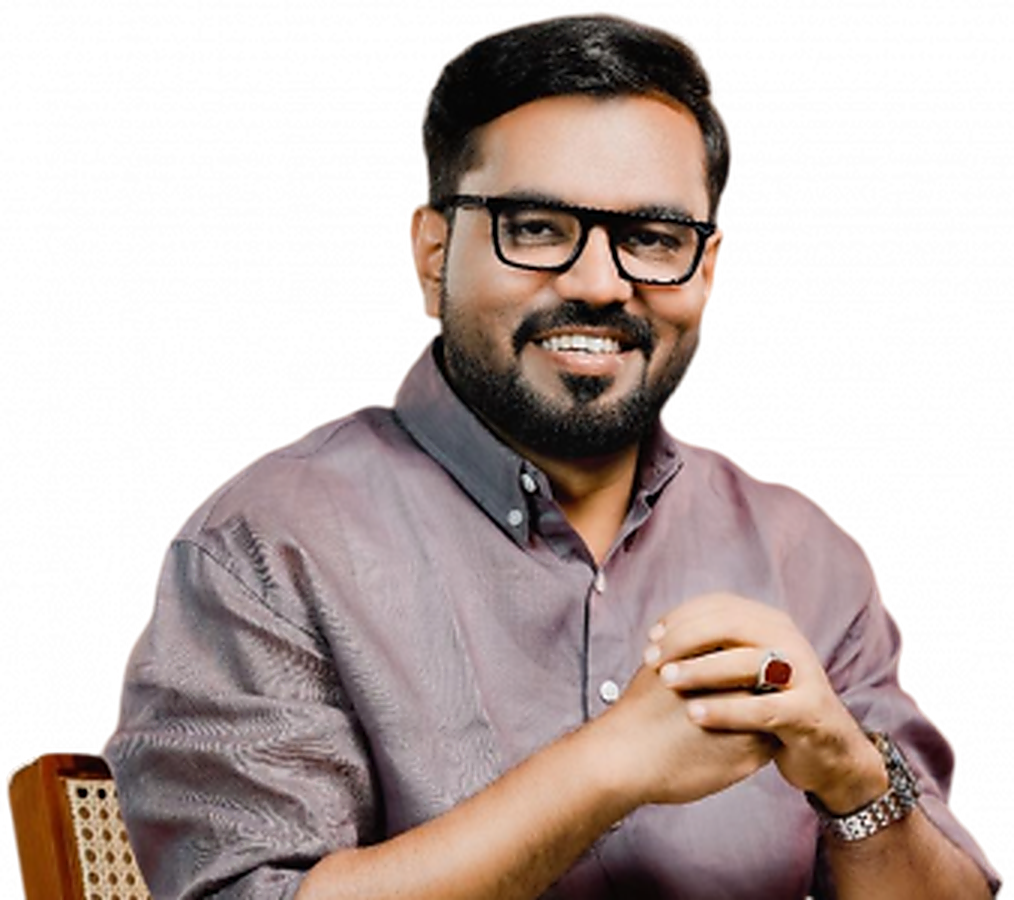
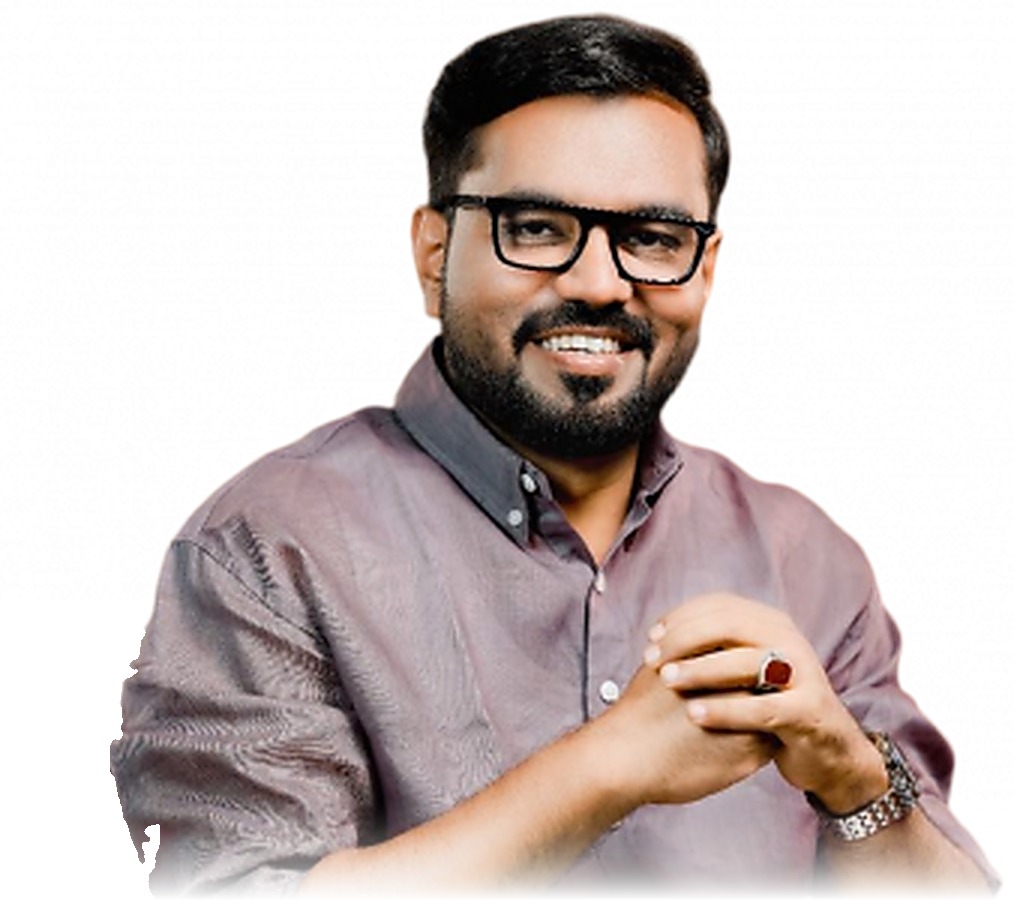
fix: resolve footer readability issue, remove chair and elevate leader portrait, and add fluid stream ozhukk waves into blue canvas

Changed region(s): [[0.0, 0.7778, 1.0, 1.0], [0.1223, 0.7156, 0.1529, 0.7467]]

diff --git a/src/styles/components.css b/src/styles/components.css
@@ -678,50 +678,92 @@
   gap: var(--space-4);
 }
 
-/* Footer Skeleton */
+/* ==========================================================================
+   PREMIUM INSTITUTIONAL FOOTER SYSTEM (WCAG AAA High Contrast & Ultra Legible)
+   ========================================================================== */
 .site-footer {
-  background-color: var(--color-surface-dark);
-  color: var(--color-text-inverted);
-  border-top: 1px solid var(--color-border-dark);
+  background: linear-gradient(180deg, #071738 0%, #051024 100%);
+  color: #F8FAFC;
+  border-top: 1px solid rgba(56, 189, 248, 0.2);
   padding-top: var(--space-16);
   padding-bottom: var(--space-12);
   margin-top: 0;
+  position: relative;
+  z-index: 10;
 }
 
 .site-footer a {
-  color: var(--color-text-secondary-inverted);
-  transition: color var(--transition-fast);
+  color: #E2E8F0 !important;
+  font-size: 0.9375rem;
+  font-weight: 500;
+  text-decoration: none;
+  transition: color var(--transition-fast), transform var(--transition-fast);
+  display: inline-flex;
+  align-items: center;
 }
 
 .site-footer a:hover {
-  color: var(--color-accent-gold);
+  color: #38BDF8 !important;
+  transform: translateX(3px);
+}
+
+.site-footer a:focus-visible {
+  outline: 2px solid #38BDF8;
+  outline-offset: 4px;
+}
+
+.site-footer p {
+  color: #CBD5E1 !important;
+  line-height: 1.7;
 }
 
 .site-footer__heading {
   font-family: var(--font-heading);
-  font-size: var(--text-xs);
-  font-weight: 600;
-  letter-spacing: var(--tracking-uppercase);
+  font-size: 0.8125rem;
+  font-weight: 800;
+  letter-spacing: 0.08em;
   text-transform: uppercase;
-  color: #FFFFFF;
-  margin-bottom: var(--space-4);
+  color: #FFFFFF !important;
+  margin-bottom: var(--space-5);
+  display: flex;
+  align-items: center;
+  gap: 8px;
+}
+
+.site-footer__heading::before {
+  content: '';
+  display: inline-block;
+  width: 6px;
+  height: 6px;
+  border-radius: 50%;
+  background-color: #10B981;
+  box-shadow: 0 0 8px #10B981;
 }
 
 .site-footer__list {
   display: flex;
   flex-direction: column;
-  gap: var(--space-2);
+  gap: 12px;
 }
 
 .site-footer__bottom {
-  border-top: 1px solid var(--color-border-dark);
+  border-top: 1px solid rgba(255, 255, 255, 0.12);
   margin-top: var(--space-12);
   padding-top: var(--space-6);
   display: flex;
   flex-direction: column;
   gap: var(--space-4);
-  font-size: var(--text-xs);
-  color: var(--color-text-tertiary);
+  font-size: 0.8125rem;
+  color: #94A3B8;
+}
+
+.site-footer__bottom a {
+  color: #CBD5E1 !important;
+  font-size: 0.8125rem;
+}
+
+.site-footer__bottom a:hover {
+  color: #FFFFFF !important;
 }
 
 @media (min-width: 768px) {
@@ -1418,15 +1460,26 @@
 }
 
 /* ==========================================================================
-   OFF-WHITE HERO SECTION WITH MINIMAL BLUE & CALICUT SOUTH ELEMENTS
-   Inspired by prestigious leadership campaign portraits (Shafi Parambil style)
+   OFF-WHITE HERO SECTION WITH FLUID "OZHUKK" STREAM INTO ROYAL BLUE
+   - Leader Portrait: Full-height, bold, chair removed, unobstructed hands
+   - Seamless streaming gradient flow melting from warm off-white into royal blue
    ========================================================================== */
 .hero-light-section {
   position: relative;
-  background: linear-gradient(155deg, #FFFFFF 0%, #F8FAFD 40%, #EFF5FD 80%, #E2EDFC 100%);
+  background: linear-gradient(
+    180deg,
+    #FFFFFF 0%,
+    #F8FAFD 25%,
+    #EFF5FD 48%,
+    #E0ECFA 68%,
+    #BFD8F8 82%,
+    #7CAEF2 90%,
+    #3078E3 96%,
+    #185EC8 100%
+  );
   color: #0F172A;
   padding-top: var(--space-8);
-  padding-bottom: var(--space-12);
+  padding-bottom: 0;
   overflow: hidden;
 }
 
@@ -1462,7 +1515,7 @@
   align-items: flex-end;
   gap: var(--space-8);
   position: relative;
-  z-index: 1;
+  z-index: 4;
 }
 
 @media (max-width: 1024px) {
@@ -1485,51 +1538,27 @@
 
 .hero-light-leader__halo {
   position: absolute;
-  bottom: 8%;
+  bottom: 12%;
   left: 50%;
   transform: translateX(-50%);
-  width: 500px;
-  height: 500px;
+  width: 520px;
+  height: 520px;
   border-radius: 50%;
-  background: radial-gradient(circle, rgba(250, 204, 21, 0.18) 0%, rgba(56, 189, 248, 0.2) 40%, rgba(13, 62, 142, 0.06) 60%, transparent 75%);
-  filter: blur(50px);
+  background: radial-gradient(circle, rgba(250, 204, 21, 0.22) 0%, rgba(56, 189, 248, 0.22) 40%, rgba(13, 62, 142, 0.06) 65%, transparent 75%);
+  filter: blur(55px);
   pointer-events: none;
   z-index: 0;
 }
 
-.hero-light-leader__portrait-wrapper {
+/* Floating Clean Leadership Chip (Unobstructed, positioned cleanly above) */
+.hero-light-leader__badge-float {
   position: relative;
-  z-index: 1;
-  width: 100%;
-  max-width: 480px;
-  display: flex;
-  justify-content: center;
-  align-items: flex-end;
-}
-
-.hero-light-leader__img {
-  width: 100%;
-  height: auto;
-  max-height: 540px;
-  object-fit: contain;
-  filter: drop-shadow(0 20px 35px rgba(10, 40, 90, 0.2));
-  -webkit-mask-image: linear-gradient(to top, transparent 0%, black 10%, black 100%);
-  mask-image: linear-gradient(to top, transparent 0%, black 10%, black 100%);
-  transition: transform var(--transition-base);
-}
-
-.hero-light-leader:hover .hero-light-leader__img {
-  transform: scale(1.02);
-}
-
-.hero-light-leader__tag {
-  position: relative;
-  z-index: 2;
-  margin-top: -18px;
-  background: #FFFFFF;
+  z-index: 3;
+  margin-bottom: var(--space-3);
+  background: rgba(255, 255, 255, 0.95);
   border: 1px solid #CBD5E1;
   border-radius: var(--radius-full);
-  padding: 8px 18px;
+  padding: 6px 16px;
   box-shadow: 0 10px 25px rgba(10, 42, 102, 0.12);
   display: inline-flex;
   align-items: center;
@@ -1540,12 +1569,44 @@
   color: #0A2858;
 }
 
-.hero-light-leader__tag-dot {
-  width: 8px;
-  height: 8px;
-  border-radius: 50%;
-  background-color: #059669;
-  box-shadow: 0 0 8px #059669;
+.hero-light-leader__badge-star {
+  color: #FACC15;
+  font-size: 0.9375rem;
+}
+
+.hero-light-leader__badge-sep {
+  color: #94A3B8;
+  font-size: 0.75rem;
+}
+
+.hero-light-leader__badge-constituency {
+  color: #059669;
+  font-weight: 600;
+}
+
+.hero-light-leader__portrait-wrapper {
+  position: relative;
+  z-index: 1;
+  width: 100%;
+  max-width: 520px;
+  display: flex;
+  justify-content: center;
+  align-items: flex-end;
+}
+
+.hero-light-leader__img {
+  width: 100%;
+  height: auto;
+  max-height: 640px;
+  object-fit: contain;
+  filter: drop-shadow(0 25px 45px rgba(10, 40, 90, 0.25));
+  -webkit-mask-image: linear-gradient(to top, transparent 0%, black 8%, black 100%);
+  mask-image: linear-gradient(to top, transparent 0%, black 8%, black 100%);
+  transition: transform var(--transition-base);
+}
+
+.hero-light-leader:hover .hero-light-leader__img {
+  transform: scale(1.015);
 }
 
 /* Right: Content */
@@ -1714,14 +1775,27 @@
   color: #64748B;
 }
 
-.hero-light-section__bottom-fade {
-  position: absolute;
-  bottom: 0;
-  left: 0;
-  right: 0;
-  height: 40px;
-  background: linear-gradient(to bottom, transparent, rgba(24, 94, 200, 0.15));
+.hero-stream-ozhukk {
+  position: relative;
+  width: 100%;
+  height: 160px;
+  margin-top: -60px;
+  overflow: hidden;
   pointer-events: none;
+  z-index: 2;
+}
+
+.hero-stream-svg {
+  width: 100%;
+  height: 100%;
+  display: block;
+}
+
+@media (max-width: 768px) {
+  .hero-stream-ozhukk {
+    height: 100px;
+    margin-top: -30px;
+  }
 }
 
 

diff --git a/src/pages/HomePage.tsx b/src/pages/HomePage.tsx
@@ -62,19 +62,24 @@ export const HomePage: React.FC = () => {
             {/* Left Column: Sri Fysal Babu MLA Official HD Cutout Portrait */}
             <div className="hero-light-leader">
               <div className="hero-light-leader__halo" />
+              
+              {/* Floating Leadership Credential Chip placed cleanly above portrait */}
+              <div className="hero-light-leader__badge-float">
+                <span className="hero-light-leader__badge-star">★</span>
+                <span>Adv. Fysal Babu MLA</span>
+                <span className="hero-light-leader__badge-sep">•</span>
+                <span className="hero-light-leader__badge-constituency">കോഴിക്കോട് സൗത്ത്</span>
+              </div>
+
               <div className="hero-light-leader__portrait-wrapper">
                 <img
                   src="/images/fysal-babu-mla-hd.png"
                   alt="Adv. Fysal Babu MLA - Member of Legislative Assembly, Kozhikode South"
                   className="hero-light-leader__img"
-                  width={480}
-                  height={540}
+                  width={520}
+                  height={620}
                   loading="eager"
                 />
-              </div>
-              <div className="hero-light-leader__tag">
-                <span className="hero-light-leader__tag-dot" />
-                <span>Adv. Fysal Babu MLA • 16th KLA (കോഴിക്കോട് സൗത്ത്)</span>
               </div>
             </div>
 
@@ -210,8 +215,23 @@ export const HomePage: React.FC = () => {
           </div>
         </Container>
 
-        {/* Smooth bottom transition into the blue page canvas */}
-        <div className="hero-light-section__bottom-fade" />
+        {/* Organic Fluid Gradient Stream ("Ozhukk") into Royal Blue */}
+        <div className="hero-stream-ozhukk" aria-hidden="true">
+          <svg viewBox="0 0 1440 180" fill="none" preserveAspectRatio="none" className="hero-stream-svg">
+            <path
+              d="M0,40 C320,110 500,10 780,70 C1060,130 1220,30 1440,80 L1440,180 L0,180 Z"
+              fill="rgba(24, 94, 200, 0.35)"
+            />
+            <path
+              d="M0,80 C260,150 540,30 840,95 C1140,160 1260,60 1440,100 L1440,180 L0,180 Z"
+              fill="rgba(20, 80, 176, 0.7)"
+            />
+            <path
+              d="M0,120 C360,170 620,70 920,130 C1220,185 1320,105 1440,140 L1440,180 L0,180 Z"
+              fill="#185EC8"
+            />
+          </svg>
+        </div>
       </section>
 
       {/* ====================================================================
